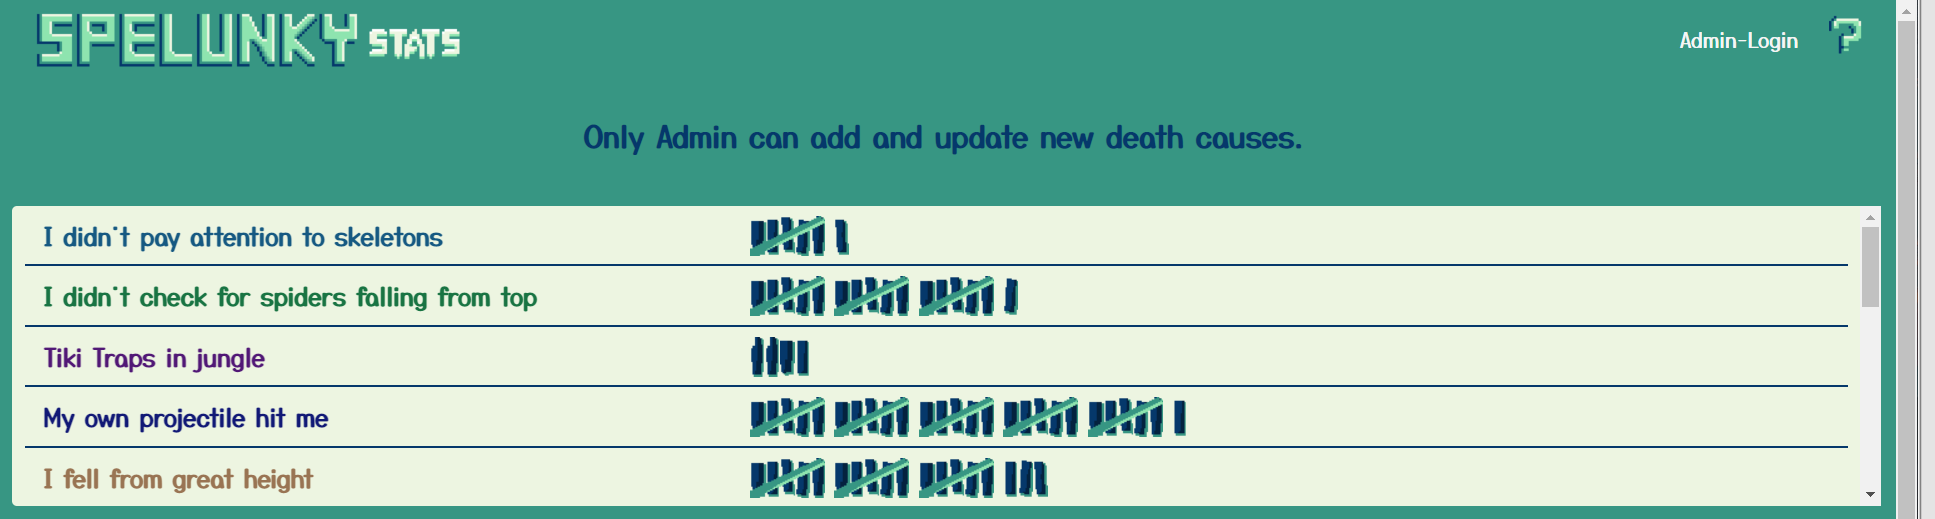
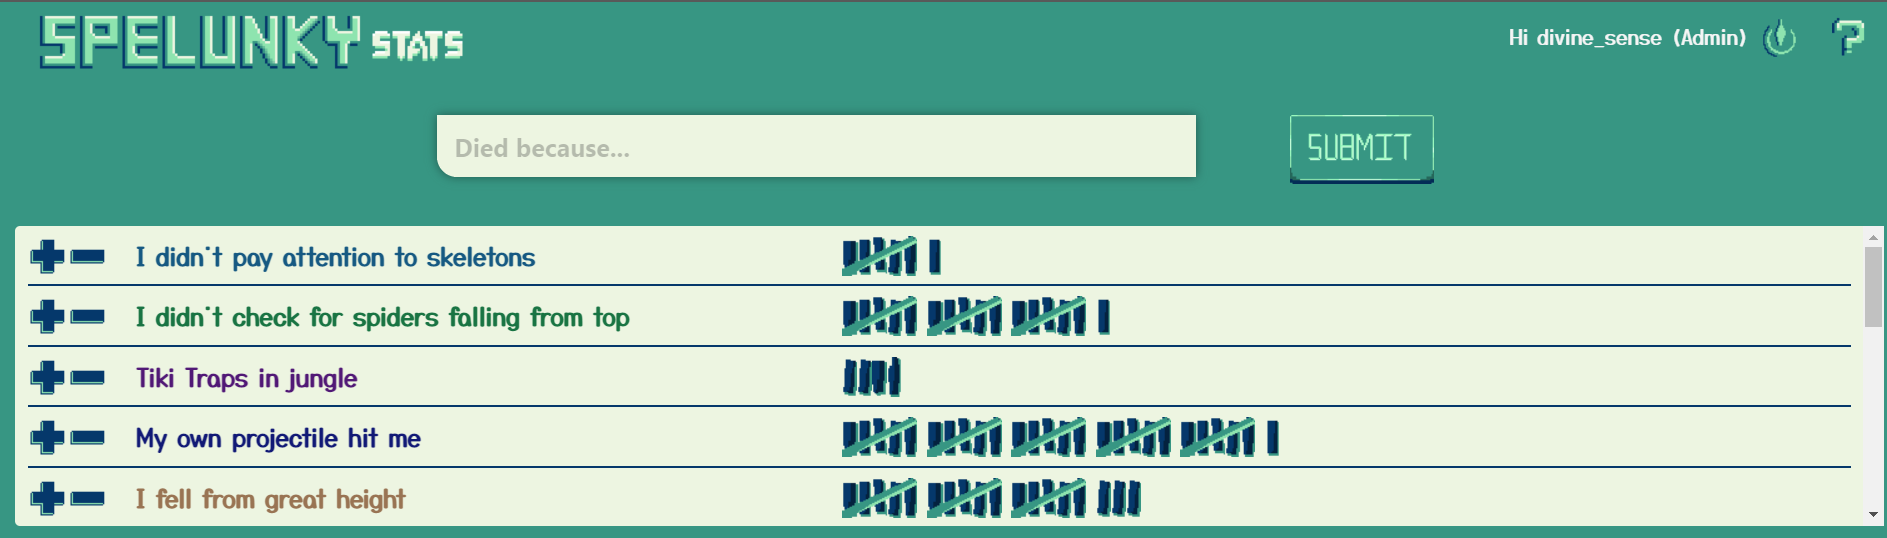
updating readme

Changed region(s): [[0.0, 0.0, 1.0, 1.0]]

diff --git a/README.md b/README.md
@@ -5,22 +5,21 @@
   <a href="https://v3.vuejs.org/"><img src="https://img.shields.io/badge/Vue-3.x-green" alt="Vuejs3"></a>
 </p>
 
-<h2 align="center">Spelunky Stats</h2>
 
-Web app written in Vue3 to capture and display the count of death causes in <a href="https://www.gog.com/game/spelunky">Spelunky</a>. Spelunky is an amazing indie platformer rougelike
+Web app written in Vue3 to capture and display the count of death causes in <a href="https://www.gog.com/game/spelunky">Spelunky</a>, an amazing indie platformer rougelike.
 
-All the pixel art is custom made (yep, including the cursor icon XD)
+All the pixel art is custom made (yep, including the cursor icon XD <img src="https://github.com/DivyenduDutta/spelunky-stats/blob/main/src/assets/cursor.png" alt="cursor_icon">)
 
 The current deployed app (which can be found <a href="https://spelunky-stats.web.app/">here</a>) allows only me to log in as an admin since only my gmail ID is associated as admin in the app. Non admin users can only view data.
 
 <p align="center"><img src="https://github.com/DivyenduDutta/spelunky-stats/blob/main/images/causes.PNG" alt="causes"></p> <br/>
 <p align="center"><img src="https://github.com/DivyenduDutta/spelunky-stats/blob/main/images/bar_graph.PNG" alt="bar_graph"></p>
 
-The admin once logged in (by clicking on "Admin-Login" at the top right corner) can input new death causes and <p align="center"><img src="https://github.com/DivyenduDutta/spelunky-stats/blob/main/images/input.PNG" alt="submit"></p> them.
+Once logged in (by clicking on "Admin-Login" at the top right corner) the admin can input new death causes and <img src="https://github.com/DivyenduDutta/spelunky-stats/blob/main/src/assets/submit_btn.gif" alt="submit"> them.
 
-<p align="center"><img src="https://github.com/DivyenduDutta/spelunky-stats/blob/main/src/assets/header.gif" alt="input"></p>
+<p align="center"><img src="https://github.com/DivyenduDutta/spelunky-stats/blob/main/images/input.PNG" alt="input"></p>
 
-The admin can also add/subtract counts for each death cause using <p align="center"><img src="https://github.com/DivyenduDutta/spelunky-stats/blob/main/src/assets/plus.png" alt="plus"></p> and <p align="center"><img src="https://github.com/DivyenduDutta/spelunky-stats/blob/main/src/assets/minus.png" alt="minus"></p>
+The admin can also add/subtract counts for each death cause using <img src="https://github.com/DivyenduDutta/spelunky-stats/blob/main/src/assets/plus.png" alt="plus"> and <img src="https://github.com/DivyenduDutta/spelunky-stats/blob/main/src/assets/minus.png" alt="minus">
 
 
 
